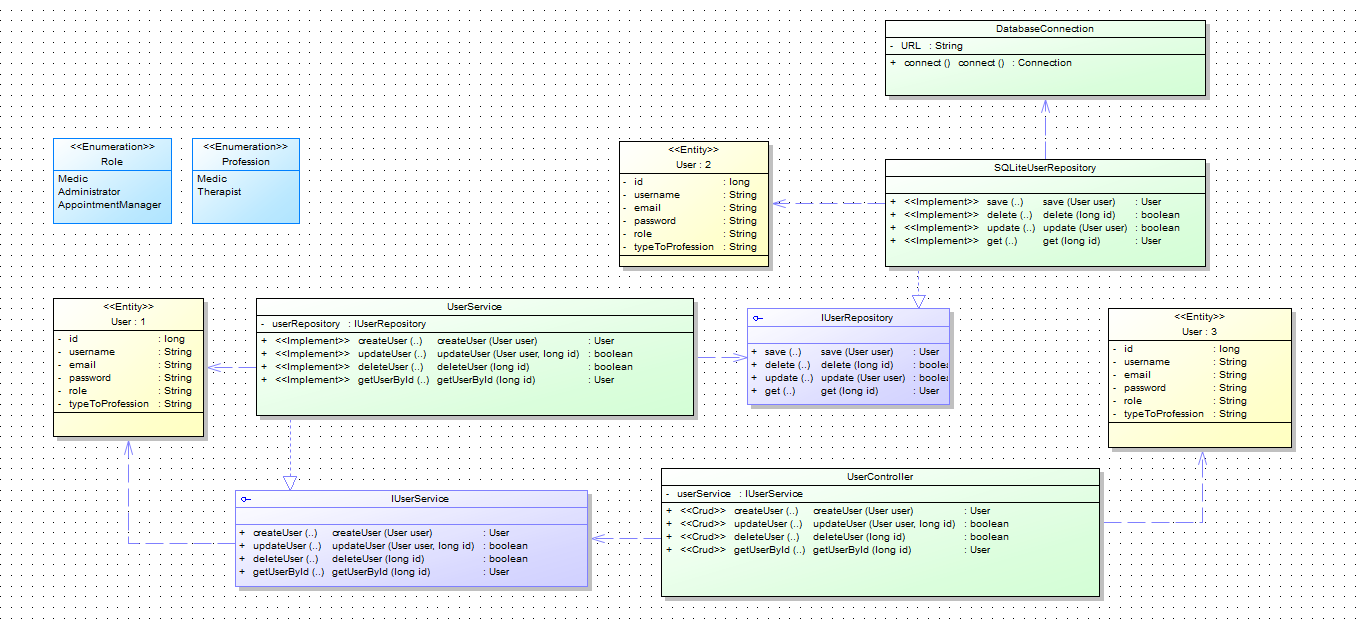
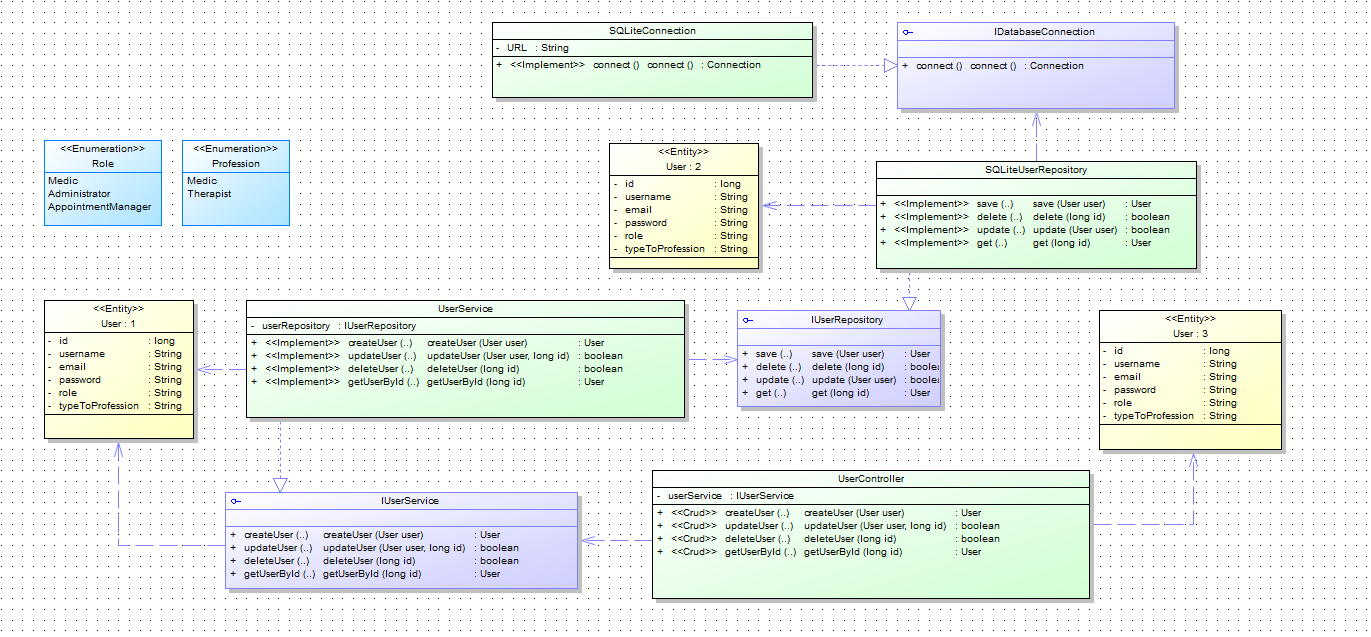
The connection interface is added and the class diagram modified

diff --git a/practice_2_SOLID/solid/src/main/java/com/fernandomulato/repository/impl/ClsSQLiteConnection.java b/practice_2_SOLID/solid/src/main/java/com/fernandomulato/repository/impl/ClsSQLiteConnection.java
@@ -1,0 +1,18 @@
+package com.fernandomulato.repository.impl;
+
+import java.sql.Connection;
+import java.sql.DriverManager;
+import java.sql.SQLException;
+
+import com.fernandomulato.repository.IDatabaseConnection;
+
+public class ClsSQLiteConnection implements IDatabaseConnection {
+  private static final String URL = "jdbc:sqlite:database.db";
+
+  public ClsSQLiteConnection() {}
+  
+  @Override
+  public Connection connect() throws SQLException {
+    return DriverManager.getConnection(URL);
+  }
+}

diff --git a/practice_2_SOLID/solid/src/main/java/com/fernandomulato/repository/impl/ClsSQLiteUserRepository.java b/practice_2_SOLID/solid/src/main/java/com/fernandomulato/repository/impl/ClsSQLiteUserRepository.java
@@ -7,20 +7,23 @@ import java.sql.SQLException;
 import java.sql.Statement;
 
 import com.fernandomulato.model.ClsUser;
+import com.fernandomulato.repository.IDatabaseConnection;
 import com.fernandomulato.repository.IUserRepository;
-import com.fernandomulato.repository.ClsDatabaseConnection;
 
+import lombok.RequiredArgsConstructor;
+
+@RequiredArgsConstructor
 public class ClsSQLiteUserRepository implements IUserRepository {
+  private final IDatabaseConnection databaseConnection;
 
   @Override
   public ClsUser opSave(ClsUser prmUser) {
-
     String sql = """
         INSERT INTO TBL_USER(user_username, user_email, user_password, user_role, user_profession)
         VALUES (?, ?, ?, ?, ?)
         """;
 
-    try (Connection conn = ClsDatabaseConnection.connect();
+    try (Connection conn = databaseConnection.connect();
         PreparedStatement pstmt = conn.prepareStatement(sql, Statement.RETURN_GENERATED_KEYS)) {
 
       pstmt.setString(1, prmUser.getAttUsername());
@@ -51,7 +54,7 @@ public class ClsSQLiteUserRepository implements IUserRepository {
 
     String sql = "DELETE FROM TBL_USER WHERE user_id = ?";
 
-    try (Connection conn = ClsDatabaseConnection.connect();
+    try (Connection conn = databaseConnection.connect();
         PreparedStatement pstmt = conn.prepareStatement(sql)) {
 
       pstmt.setLong(1, prmId);
@@ -78,7 +81,7 @@ public class ClsSQLiteUserRepository implements IUserRepository {
         WHERE user_id = ?
         """;
 
-    try (Connection conn = ClsDatabaseConnection.connect();
+    try (Connection conn = databaseConnection.connect();
         PreparedStatement pstmt = conn.prepareStatement(sql)) {
 
       pstmt.setString(1, prmUser.getAttUsername());
@@ -102,7 +105,7 @@ public class ClsSQLiteUserRepository implements IUserRepository {
 
     String sql = "SELECT * FROM TBL_USER WHERE user_id = ?";
 
-    try (Connection conn = ClsDatabaseConnection.connect();
+    try (Connection conn = databaseConnection.connect();
         PreparedStatement pstmt = conn.prepareStatement(sql)) {
 
       pstmt.setLong(1, prmId);

diff --git a/practice_2_SOLID/solid/src/main/java/com/fernandomulato/repository/IDatabaseConnection.java b/practice_2_SOLID/solid/src/main/java/com/fernandomulato/repository/IDatabaseConnection.java
@@ -1,0 +1,9 @@
+package com.fernandomulato.repository;
+
+import java.sql.Connection;
+import java.sql.SQLException;
+
+
+public interface IDatabaseConnection  {
+  Connection connect()  throws SQLException;
+}

diff --git a/practice_2_SOLID/solid/src/main/java/com/fernandomulato/App.java b/practice_2_SOLID/solid/src/main/java/com/fernandomulato/App.java
@@ -1,6 +1,7 @@
 package com.fernandomulato;
 
 import com.fernandomulato.controller.ClsUserController;
+import com.fernandomulato.repository.impl.ClsSQLiteConnection;
 import com.fernandomulato.repository.impl.ClsSQLiteUserRepository;
 import com.fernandomulato.service.impl.ClsUserServiceImpl;
 import com.fernandomulato.view.ClsUserView;
@@ -8,8 +9,8 @@ import com.fernandomulato.view.ClsUserView;
 public class App {
 
     public static void main(String[] args) {
-
-        var repository = new ClsSQLiteUserRepository();
+        var databaseConnection = new ClsSQLiteConnection();
+        var repository = new ClsSQLiteUserRepository(databaseConnection);
         var service = new ClsUserServiceImpl(repository);
         var controller = new ClsUserController(service);
         var view = new ClsUserView(controller);